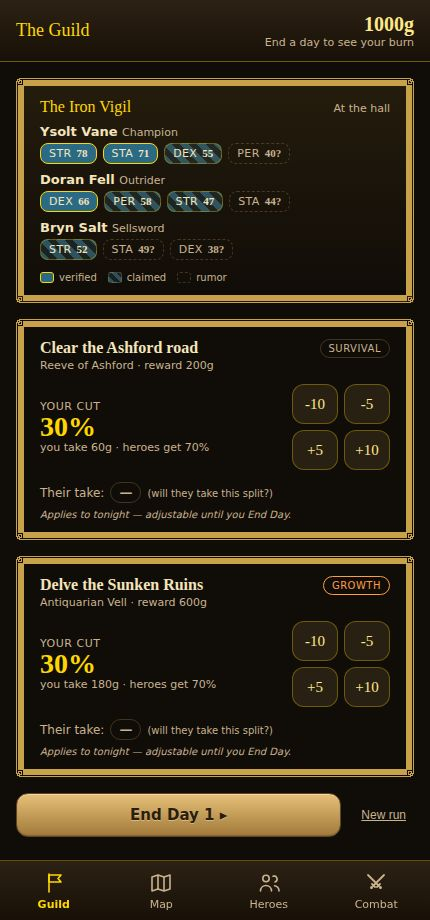
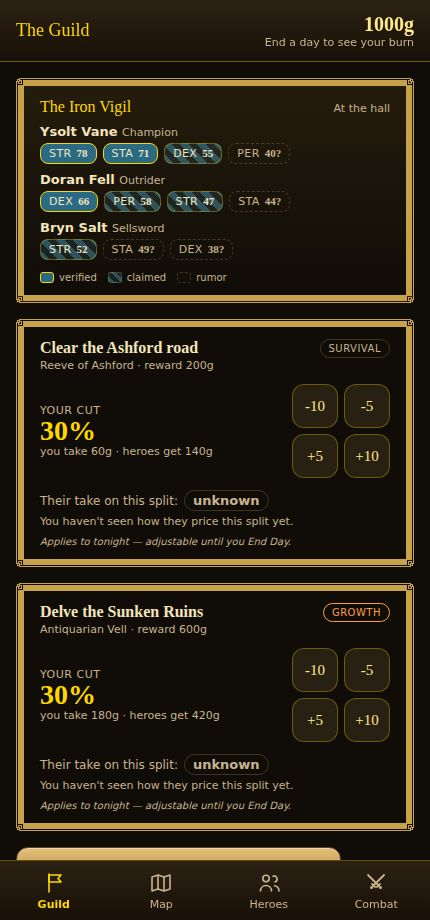
fix(guild): Review #2 fixes — road anchor, insolvency chip, report scroll, a11y
Four Review #2 blockers, all fixed:
- Designer: road askAnchor 42 → 37, so blind 30% is EV-optimal on the road too
  (§12) — 35% no longer strictly dominates it. Widened the blind-optimal test to
  every reachable cut {20,25,30,35,40} (the gap that let this through).
- Adversary/Engineer: the insolvent N/5 counter is now shown whenever
  insolventStreak > 0 (not only while a loan is active), so the lethal post-repay
  spiral has a visible countdown.
- Player-exp: the End Day report scrolls into view (the gold-delta payoff was
  below the fold); cut buttons are 44px (were 40px, under the tap-target min).

Non-blocking folded: reveal hint fires while the appetite band is still wide;
"unknown" appetite shows the word; runway reflects the recurring burn, not a
spiky payday; added an rngState-advances test; visible appetite hint (was
title-only); gold/gold split units; mail lines lifted off --text-dim; a Guild
entry on StartScreen (the loop was only reachable via the nav elsewhere);
aligned the cut-reset comment.

Additive; combat core, LPC pipeline, and art pipeline still untouched.

Claude-Session: https://claude.ai/code/session_015nDwUHaHPSLAVvkERzxPPS

diff --git a/web/src/game/world/endDay.ts b/web/src/game/world/endDay.ts
@@ -60,13 +60,11 @@ export function endDay(prev: WorldState): WorldState {
   const quality = partyQuality(s.heroes);
   const byId = (id: string) => s.quests.find((q) => q.id === id)!;
 
-  // Operating net (drives the runway line) excludes financing (loan in/out).
-  let operatingNet = 0;
-  const gain = (label: string, amount: number, operating = true) => {
+  const gain = (label: string, amount: number) => {
     s.gold += amount;
     ledger.push({ label, amount });
-    if (operating) operatingNet += amount;
   };
+  let interestCharged = false;
 
   // 1. Cut revisions already live in each quest.cut (set during the day). No-op.
 
@@ -107,7 +105,9 @@ export function endDay(prev: WorldState): WorldState {
         });
         toFreshLetter(q); // giver gone → a new giver's fresh letter
       } else {
-        // Same quest returns: failCount + payBump persist; only the board clock resets.
+        // Same quest returns (failCount + payBump persist), but re-posts as a fresh
+        // letter: the board clock AND the cut reset to base 30% (§12's replacement-
+        // letter rule), so a prior misprice doesn't silently carry forward.
         q.reward = base.reward + q.payBump;
         q.onBoard = true;
         q.cut = ECONOMY.cutBase;
@@ -161,9 +161,15 @@ export function endDay(prev: WorldState): WorldState {
           text: `No takers for ${e.q.title} — the ${e.q.cut}% cut looks thin to them.`,
         });
       }
-      // Occasionally volunteer the other side of the bracket (coarse free knowledge).
+      // Occasionally volunteer the other side of the bracket (coarse free knowledge)
+      // — while the appetite band is still WIDE (>~4 pts, per §12's residual band),
+      // not only before the first observed accept. Once it tightens, the hints stop.
       for (const e of evals) {
-        if (e.q.learnedMaxAccepted === null && nextFloat(cur) < 0.3) {
+        const gap =
+          e.q.learnedMaxAccepted === null
+            ? Infinity
+            : (e.q.learnedMinDeclined ?? Infinity) - e.q.learnedMaxAccepted;
+        if (gap > ACCEPT.dailyNoiseMax * 2 && nextFloat(cur) < 0.3) {
           mail.push({
             kind: "reveal",
             quest: e.q.id,
@@ -180,18 +186,21 @@ export function endDay(prev: WorldState): WorldState {
   gain("Daily upkeep", -ECONOMY.dailyUpkeep);
 
   // 6. Loan interest (flat, non-compounding).
-  if (s.loan.active) gain("Loan interest (5%/day)", -ECONOMY.loanInterestPerDay);
+  if (s.loan.active) {
+    gain("Loan interest (5%/day)", -ECONOMY.loanInterestPerDay);
+    interestCharged = true;
+  }
 
   // 7. Forced auto-repay — the moment you can pay 600g and still keep 200g.
   if (s.loan.active && s.gold - ECONOMY.loanPrincipal >= ECONOMY.repayKeepBuffer) {
-    gain("Loan repaid", -ECONOMY.loanPrincipal, false); // financing, not operating
+    gain("Loan repaid", -ECONOMY.loanPrincipal);
     s.loan.active = false;
     mail.push({ kind: "repaid", text: `You cleared the ${ECONOMY.loanPrincipal}g loan and kept a working buffer.` });
   }
 
   // 8. Loan disbursement — a fresh loan clears THIS day's insolvency (one per run).
   if (s.gold < 0 && !s.loan.taken) {
-    gain("Emergency loan", ECONOMY.loanPrincipal, false); // financing, not operating
+    gain("Emergency loan", ECONOMY.loanPrincipal);
     s.loan.active = true;
     s.loan.taken = true;
     mail.push({
@@ -215,10 +224,16 @@ export function endDay(prev: WorldState): WorldState {
   }
 
   // ---- Report figures ----
+  // The runway reflects the RECURRING burn (passive − upkeep − interest), NOT
+  // one-off quest income — otherwise a payday would mask the §8 clock and read as
+  // false runway. The headline gold delta (rendered separately) celebrates a good
+  // day; this line is the honest sustained-burn pressure.
+  const structuralBurn =
+    ECONOMY.passiveIncome - ECONOMY.dailyUpkeep - (interestCharged ? ECONOMY.loanInterestPerDay : 0);
   report.goldAfter = s.gold;
-  report.netPerDay = operatingNet;
+  report.netPerDay = structuralBurn;
   report.runwayDaysAfter =
-    operatingNet >= 0 ? null : Math.max(0, Math.floor(Math.max(0, s.gold) / -operatingNet));
+    structuralBurn >= 0 ? null : Math.max(0, Math.floor(Math.max(0, s.gold) / -structuralBurn));
 
   // ---- Next morning: board refresh (revision unlocks; expiry withdraws) ----
   if (s.status === "playing") {

diff --git a/web/src/ui/guild/GuildScreen.tsx b/web/src/ui/guild/GuildScreen.tsx
@@ -3,7 +3,7 @@
 // (gold delta, runway, why-no-takers) as the §8/§12 cash clock bites. All rules
 // live in game/world/; this screen only renders state and dispatches actions.
 
-import { useState } from "react";
+import { useEffect, useRef, useState } from "react";
 import { Button, Panel } from "../kit";
 import {
   APPETITE_LABEL,
@@ -25,6 +25,14 @@ const takeOf = (q: Quest) => Math.round((q.reward * q.cut) / 100);
 
 export function GuildScreen() {
   const { state, adjustCut, endDay, startNewRun } = useGuildState();
+  // Bring the report into view when a new one lands — otherwise the End Day
+  // payoff (gold delta headline) is below the fold and reads as "nothing happened".
+  const reportRef = useRef<HTMLDivElement>(null);
+  useEffect(() => {
+    if (state.lastReport && reportRef.current) {
+      reportRef.current.scrollIntoView({ behavior: "smooth", block: "start" });
+    }
+  }, [state.lastReport]);
   return (
     <div className={styles.screen}>
       <header className={styles.bar}>
@@ -60,7 +68,11 @@ export function GuildScreen() {
           </>
         )}
 
-        {state.lastReport && <Report report={state.lastReport} />}
+        {state.lastReport && (
+          <div ref={reportRef}>
+            <Report report={state.lastReport} />
+          </div>
+        )}
       </div>
     </div>
   );
@@ -79,9 +91,9 @@ function Treasury({ state }: { state: WorldState }) {
     <div className={styles.treasury} aria-label={`Treasury ${state.gold} gold`}>
       <span className={styles.gold}>{state.gold}g</span>
       <span className={styles.burn}>{burnLine}</span>
-      {state.loan.active && (
+      {(state.loan.active || state.insolventStreak > 0) && (
         <span className={styles.debt} title="Consecutive insolvent days; 5 revokes the charter">
-          loan owed · insolvent {state.insolventStreak}/{ECONOMY.insolvencyLimit}
+          {state.loan.active ? "loan owed · " : ""}insolvent {state.insolventStreak}/{ECONOMY.insolvencyLimit}
         </span>
       )}
     </div>
@@ -179,7 +191,7 @@ function Posting({
             <div className={styles.cutBlock}>
               <span className={styles.cutLabel}>Your cut</span>
               <span className={styles.cutValue}>{quest.cut}%</span>
-              <span className={styles.cutTake}>you take {takeOf(quest)}g · heroes get {100 - quest.cut}%</span>
+              <span className={styles.cutTake}>you take {takeOf(quest)}g · heroes get {quest.reward - takeOf(quest)}g</span>
             </div>
             <div className={styles.cutButtons} role="group" aria-label={`Adjust cut for ${quest.title}`}>
               {[-10, -5, 5, 10].map((d) => {
@@ -201,13 +213,13 @@ function Posting({
             </div>
           </div>
 
-          <div className={styles.appetiteRow} title={APPETITE_HINT[appetite]}>
-            <span className={styles.appetiteLabel}>Their take:</span>
+          <div className={styles.appetiteRow}>
+            <span className={styles.appetiteLabel}>Their take on this split:</span>
             <span className={styles.appetite} data-appetite={appetite}>
-              {appetite === "unknown" ? "—" : APPETITE_LABEL[appetite]}
+              {APPETITE_LABEL[appetite]}
             </span>
-            <span className={styles.appetiteNote}>(will they take this split?)</span>
           </div>
+          <p className={styles.appetiteHint}>{APPETITE_HINT[appetite]}</p>
           <p className={styles.cutHint}>Applies to tonight — adjustable until you End Day.</p>
         </>
       )}

diff --git a/web/src/game/world/world.test.ts b/web/src/game/world/world.test.ts
@@ -52,6 +52,16 @@ describe("determinism", () => {
     endDay(s);
     expect(s).toEqual(snapshot);
   });
+
+  it("advances the RNG cursor each day (not a frozen stream)", () => {
+    const s0 = newRun(9);
+    const s1 = endDay(s0);
+    const s2 = endDay(s1);
+    // If the cursor weren't written back, rngState would never change and every
+    // day would replay the identical noise/outcome draws.
+    expect(s1.rngState).not.toBe(s0.rngState);
+    expect(s2.rngState).not.toBe(s1.rngState);
+  });
 });
 
 describe("cash clock (§12 number sheet)", () => {
@@ -303,10 +313,13 @@ describe("blind play is base-optimal (§12 R2 property)", () => {
   const ev = (tier: "road" | "ruins", cut: number) =>
     acceptProb(tier, cut) * ((QUESTS[tier].reward * cut) / 100) * successChance(tier, quality);
 
-  it("cut = 30 maximises blind EV on both tiers", () => {
+  it("cut = 30 maximises blind EV on both tiers, across EVERY reachable cut", () => {
+    // Must check 25 and 35 too — the −5/+5 buttons reach them, and an anchor set
+    // too high once let 35% strictly dominate 30% blind (Review #2 blocker).
     for (const tier of ["road", "ruins"] as const) {
-      expect(ev(tier, 30)).toBeGreaterThanOrEqual(ev(tier, 20));
-      expect(ev(tier, 30)).toBeGreaterThanOrEqual(ev(tier, 40));
+      for (const cut of [20, 25, 35, 40]) {
+        expect(ev(tier, 30)).toBeGreaterThan(ev(tier, cut));
+      }
     }
   });
 

diff --git a/web/src/ui/StartScreen.tsx b/web/src/ui/StartScreen.tsx
@@ -6,16 +6,20 @@ import { Button } from "./kit";
 import styles from "./StartScreen.module.css";
 
 interface Props {
+  onGuild: () => void;
   onCombatTest: () => void;
   onNodeTest: () => void;
 }
 
-export function StartScreen({ onCombatTest, onNodeTest }: Props) {
+export function StartScreen({ onGuild, onCombatTest, onNodeTest }: Props) {
   return (
     <div className={styles.screen}>
       <h1 className={styles.srOnly}>Asset Report</h1>
       <nav className={styles.menu} aria-label="Main menu">
-        <Button className={styles.menuBtn} onClick={onNodeTest}>
+        <Button className={styles.menuBtn} onClick={onGuild}>
+          Enter the Guild
+        </Button>
+        <Button variant="secondary" className={styles.menuBtn} onClick={onNodeTest}>
           World Map
         </Button>
         <Button variant="secondary" className={styles.menuBtn} onClick={onCombatTest}>

diff --git a/web/src/game/world/economy.ts b/web/src/game/world/economy.ts
@@ -30,9 +30,11 @@ export const QUESTS = {
     title: "Clear the Ashford road",
     reward: 200, // → cut 40–80g. Survival: success ~85%; at 30% ≈ +6g/day net.
     // Acceptance is a MAX-CUT threshold in cut-points: the party bites if the
-    // posted cut ≤ (askAnchor + run offset + daily noise). Road sits high, so it
-    // is almost always taken — the §6 unstick floor.
-    askAnchor: 42,
+    // posted cut ≤ (askAnchor + run offset + daily noise). Seated so the road is
+    // always taken at the base 30% cut (the §6 unstick floor) BUT the acceptance
+    // cliff begins by 35% — so blind 30% is EV-optimal here too (§12), and raising
+    // the cut is a knowledge play, not free money.
+    askAnchor: 37,
     failPayBump: 40, // one-time reward bump on failure (bounded; difficulty rises with pay)
   },
   ruins: {

diff --git a/web/src/ui/guild/GuildScreen.module.css b/web/src/ui/guild/GuildScreen.module.css
@@ -257,7 +257,7 @@
 }
 .cutBtn {
   min-width: 46px;
-  min-height: 40px;
+  min-height: 44px;
   border-radius: var(--r-md);
   border: 1px solid var(--stroke-gold);
   background: var(--surface-2);
@@ -305,8 +305,10 @@
   color: var(--c-blood);
   border-color: var(--c-blood);
 }
-.appetiteNote {
-  font-size: 10px;
+.appetiteHint {
+  margin: 4px 0 0;
+  font-size: 11px;
+  line-height: 1.35;
   color: var(--text-dim);
 }
 .cutHint {
@@ -377,7 +379,7 @@
 .mailLine {
   font-size: 12px;
   line-height: 1.4;
-  color: var(--text-dim);
+  color: var(--text-strong);
   padding-left: 10px;
   border-left: 2px solid var(--stroke-soft);
 }

diff --git a/web/src/ui/Root.tsx b/web/src/ui/Root.tsx
@@ -43,7 +43,13 @@ export function Root() {
   };
 
   if (route === "start") {
-    return <StartScreen onCombatTest={() => go("test")} onNodeTest={() => go("node")} />;
+    return (
+      <StartScreen
+        onGuild={() => go("guild")}
+        onCombatTest={() => go("test")}
+        onNodeTest={() => go("node")}
+      />
+    );
   }
 
   const screen =

diff --git a/PROGRESS.md b/PROGRESS.md
@@ -26,7 +26,25 @@ Format per entry:
   growing 140g/day"), ledger itemized, back-to-back workdays, no h-overflow, 4 tabs fit; injected
   revoked state renders "Charter revoked" + insolvent 5/5 debt chip + working "Start a new guild".
   Combat core / LPC / art pipeline untouched (verified). Screenshots: `docs/screenshots/guild-*.jpg`.
-- Then ran Review #2 on the diff (below the plan entry once complete).
+- Review #2 (4-persona, on the DIFF): 4 blockers, all fixed — (1) Designer: `road.askAnchor=42` let
+  35% strictly dominate 30% blind (EV 61 vs 52), breaking §12's "30 base-optimal on both" — my
+  blind-optimal test only checked {20,30,40} and missed the reachable 25/35; lowered to 37 and
+  widened the test to every reachable cut {20,25,30,35,40}; (2) Adversary+Engineer: the insolvency
+  N/5 counter was gated on `loan.active`, so the *lethal* post-repay spiral (loan spent, streak
+  1→5) showed no countdown — now gated on `insolventStreak>0 || loan.active`; (3) Player-exp: the
+  End Day report rendered below the fold ("nothing happened") — now scrolls into view; (4)
+  Player-exp: cut buttons were 40px (<44px tap target) — now 44. Non-blocking folded: reveal line
+  fires while the appetite band is still wide (was: dead after first accept); "unknown" shows the
+  word (was a bare "—"); runway now reflects the recurring burn not a spiky payday; a
+  rngState-advances test; visible appetite hint (was title-only, dead on touch); gold/gold split
+  units ("you take 60g · heroes get 140g"); mail lines lifted off `--text-dim`; a Guild entry added
+  to StartScreen (the loop was only reachable via the nav on another screen); cut-reset comment
+  aligned. Engineer confirmed forbidden paths untouched + reducer/determinism sound; Adversary
+  confirmed the domain otherwise unbreakable (loan clock, softlock self-heal, identity bounds, no
+  ask leak). Re-verified: `tsc -b` clean, `vite build` green, **76 vitest pass**, headless @430px
+  confirmed all four fixes live (Guild button, visible hint, 44px, report-in-view, 5/5 chip w/o
+  active loan, gold/gold units, no console errors).
+- Open questions: none blocking. Next: PR into `dev` → self-post `@codex review` → merge gate.
 
 ## 2026-07-07 - Slice 1 (Thin closed loop): plan done
 - Gate: plan (Review #1 cleared; proceeding to build autonomously per the loop — no human checkpoint here)
